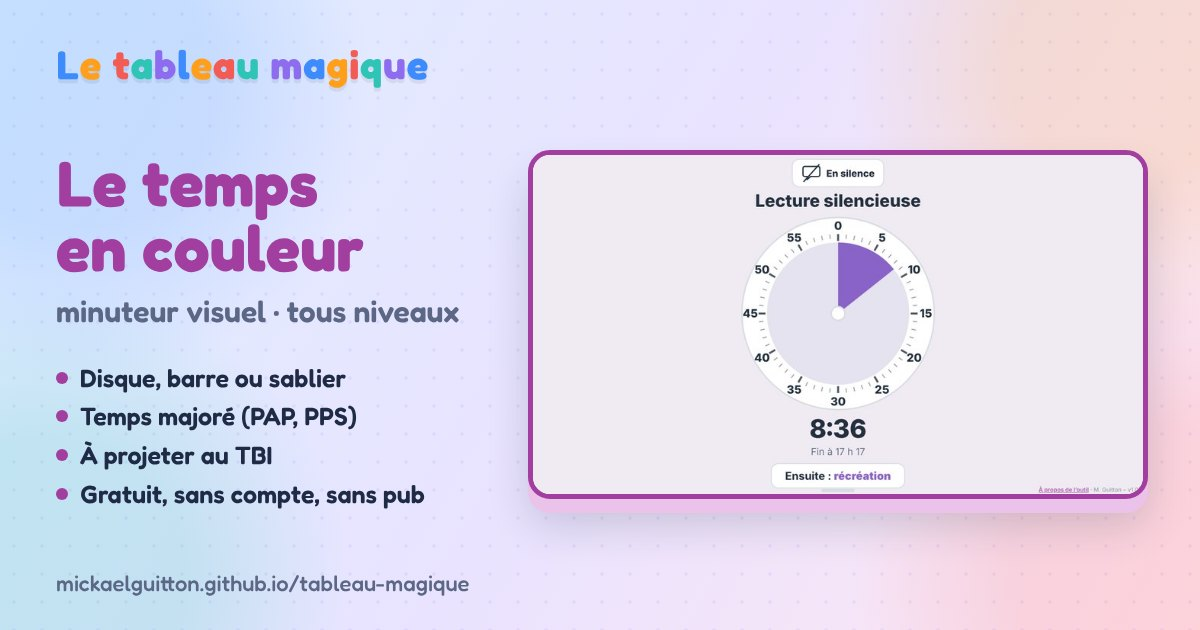
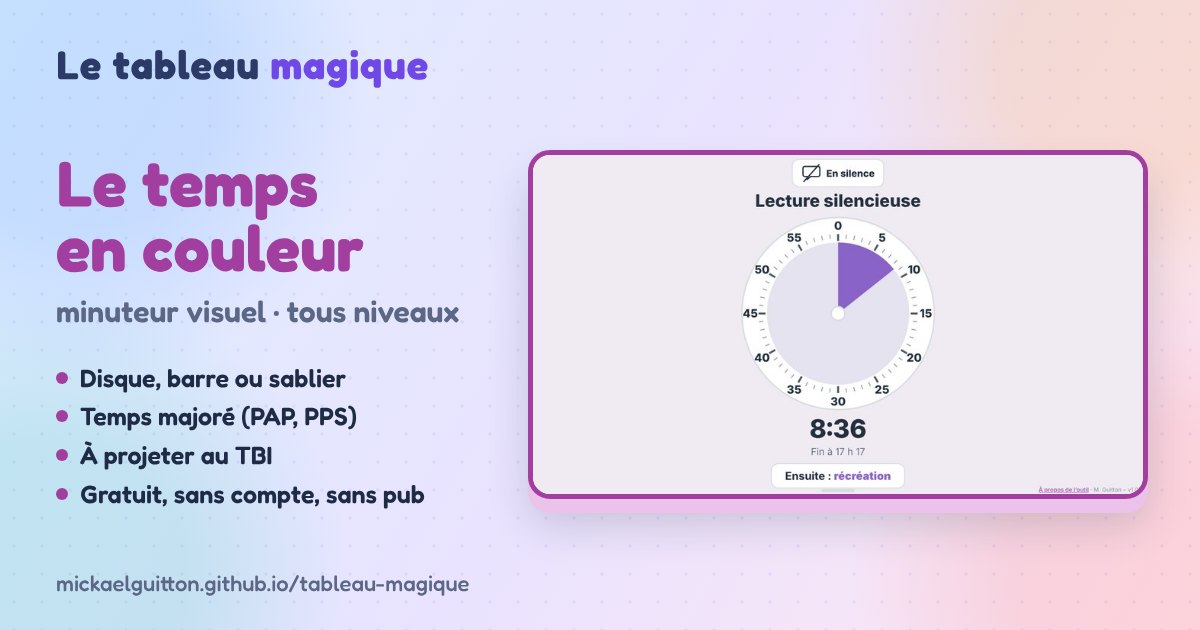
Portail v3.1 : titre sobre (bleu nuit, « magique » en violet) et phrase d'accroche sous le titre, images de partage
Claude-Session: https://claude.ai/code/session_01Te8xrvMufWVNSVLdwnm9Mc

Changed region(s): [[0.0308, 0.0603, 0.37, 0.1508]]

diff --git a/index.html b/index.html
@@ -3,16 +3,16 @@
 <head>
 <meta charset="UTF-8">
 <meta name="viewport" content="width=device-width, initial-scale=1.0">
-<title data-court="Le tableau magique">Le tableau magique : outils gratuits à projeter au TBI, du CP au CM2</title>
-<meta name="description" content="Outils de classe gratuits à projeter au TBI ou au vidéoprojecteur, du CP au CM2 : calcul mental, droites graduées, lecture de l’heure en français et en anglais, conjugaison, natures des mots, géométrie, cartes de géographie, copie guidée, jeu de révision en équipes, minuteur visuel, tirage au sort des élèves, textes adaptés en syllabes de couleur. Fonctionnent sans internet une fois installés.">
+<title data-court="Le tableau magique">Le tableau magique : des outils clés en main à projeter au TBI, du CP au CM2</title>
+<meta name="description" content="Des outils de classe gratuits et clés en main à projeter au TBI ou au vidéoprojecteur, du CP au CM2 : calcul mental, droites graduées, lecture de l’heure en français et en anglais, conjugaison, natures des mots, géométrie, cartes de géographie, copie guidée, jeu de révision en équipes, minuteur visuel, tirage au sort des élèves, textes adaptés en syllabes de couleur. Fonctionnent sans internet une fois installés.">
 <!-- Référencement et aperçu du lien quand on le partage (messagerie, réseaux sociaux) -->
 <link rel="canonical" href="https://mickaelguitton.github.io/tableau-magique/">
 <meta name="google-site-verification" content="M0ho2rjFlrCD5UeTchszL2o4FO9_UYwn1Wu52MNHViI">   <!-- Google Search Console -->
 <meta property="og:type" content="website">
 <meta property="og:site_name" content="Le tableau magique">
 <meta property="og:locale" content="fr_FR">
-<meta property="og:title" content="Le tableau magique : outils gratuits à projeter au TBI, du CP au CM2">
-<meta property="og:description" content="Outils de classe gratuits à projeter au TBI ou au vidéoprojecteur, du CP au CM2 : calcul mental, droites graduées, lecture de l’heure en français et en anglais, conjugaison, natures des mots, géométrie, cartes de géographie, copie guidée, jeu de révision en équipes, minuteur visuel, tirage au sort des élèves, textes adaptés en syllabes de couleur. Fonctionnent sans internet une fois installés.">
+<meta property="og:title" content="Le tableau magique : des outils clés en main à projeter au TBI, du CP au CM2">
+<meta property="og:description" content="Des outils de classe gratuits et clés en main à projeter au TBI ou au vidéoprojecteur, du CP au CM2 : calcul mental, droites graduées, lecture de l’heure en français et en anglais, conjugaison, natures des mots, géométrie, cartes de géographie, copie guidée, jeu de révision en équipes, minuteur visuel, tirage au sort des élèves, textes adaptés en syllabes de couleur. Fonctionnent sans internet une fois installés.">
 <meta property="og:url" content="https://mickaelguitton.github.io/tableau-magique/">
 <meta property="og:image" content="https://mickaelguitton.github.io/tableau-magique/images/partage.jpg">
 <meta name="twitter:card" content="summary_large_image">
@@ -63,29 +63,17 @@
     padding:6vh 24px 1.5vh;   /* un peu d’air au-dessus du titre */
   }
 
-  /* ---------- Titre multicolore (une couleur par lettre) ---------- */
+  /* ---------- Titre sobre (bleu nuit, « magique » en violet), puis la phrase d'accroche ---------- */
   header{text-align:center;margin-bottom:1.5vh;flex:none}
   h1{
-    font-size:clamp(36px,min(6.5vw,10vh),88px);
-    font-weight:700;letter-spacing:1px;line-height:1.05;
+    font-size:clamp(34px,min(6vw,9vh),80px);
+    font-weight:700;letter-spacing:.5px;line-height:1.05;color:#2B3A67;white-space:nowrap;
   }
-  h1 .mot{display:inline-block;white-space:nowrap}   /* un mot n'est jamais coupé en fin de ligne */
-
-  /* Lettres qui dansent doucement, chacune avec un petit décalage */
-  h1 .l{
-    display:inline-block;
-    text-shadow:0 4px 0 rgba(31,42,68,.08);
-    animation:danse 2.8s ease-in-out infinite;
-    animation-delay:calc(var(--i) * -0.18s);
+  h1 .magique{color:#7048E8}
+  #accroche{
+    font-size:clamp(14px,min(2vw,2.8vh),24px);font-weight:500;color:#5A6488;
+    margin-top:.5vh;
   }
-  @keyframes danse{
-    0%,100%{transform:translateY(0) rotate(0deg)}
-    25%    {transform:translateY(-7%) rotate(-4deg)}
-    50%    {transform:translateY(0) rotate(0deg)}
-    75%    {transform:translateY(4%) rotate(3deg)}
-  }
-  /* Respecte le réglage « réduire les animations » de l'ordinateur */
-  @media (prefers-reduced-motion: reduce){ h1 .l{animation:none} }
 
   /* ---------- Grille des tuiles ----------
      Le nombre de colonnes et la taille des tuiles sont calculés par le script
@@ -302,7 +290,8 @@
 <body>
 
 <header>
-  <h1 id="titre" aria-label="Le tableau magique">Le tableau magique</h1>
+  <h1 id="titre">Le tableau <span class="magique">magique</span></h1>
+  <p id="accroche">Des outils clés en main à projeter au TBI · du CP au CM2</p>
 </header>
 
 <!-- Tuiles des outils : fabriquées à partir de outils.js (voir le script en bas) -->
@@ -372,19 +361,6 @@
 <footer>M. Guitton – <a href="https://creativecommons.org/licenses/by-nc/4.0/legalcode.fr" target="_blank" rel="noopener">licence CC BY-NC 4.0</a><span class="app-version"> – v1.0</span></footer>
 
 <script>
-  /* Colore le titre lettre par lettre (les espaces restent neutres) */
-  (function colorerTitre(){
-    const h1 = document.getElementById('titre');
-    const COULEURS = ['var(--bleu)', 'var(--orange)', 'var(--rouge)', 'var(--vert)', 'var(--violet)'];
-    let i = 0;
-    h1.innerHTML = h1.textContent.split(' ').map(mot =>
-      '<span class="mot" aria-hidden="true">' + [...mot].map(c => {
-        const s = '<span class="l" style="--i:' + i + ';color:' + COULEURS[i % 5] + '">' + c + '</span>';
-        i++; return s;
-      }).join('') + '</span>'
-    ).join(' ');
-  })();
-
   const OUTILS = self.OUTILS || [];
   const echapper = t => String(t).replace(/[&<>"]/g, c => ({'&':'&amp;','<':'&lt;','>':'&gt;','"':'&quot;'}[c]));
   const couleurs = o => '--couleur:' + o.couleur + ';--ombre:' + o.ombre;

diff --git a/version.js b/version.js
@@ -3,4 +3,4 @@
    Il s'affiche en bas de la page d'accueil et déclenche la mise à jour automatique des applis installées.
    Chaque OUTIL a son propre numéro, dans outils.js : c'est celui-là qu'on change quand on modifie un outil.
    M. Guitton — fichier mis au point avec l'aide de Claude AI. */
-self.APP_VERSION = '3.0';
+self.APP_VERSION = '3.1';
